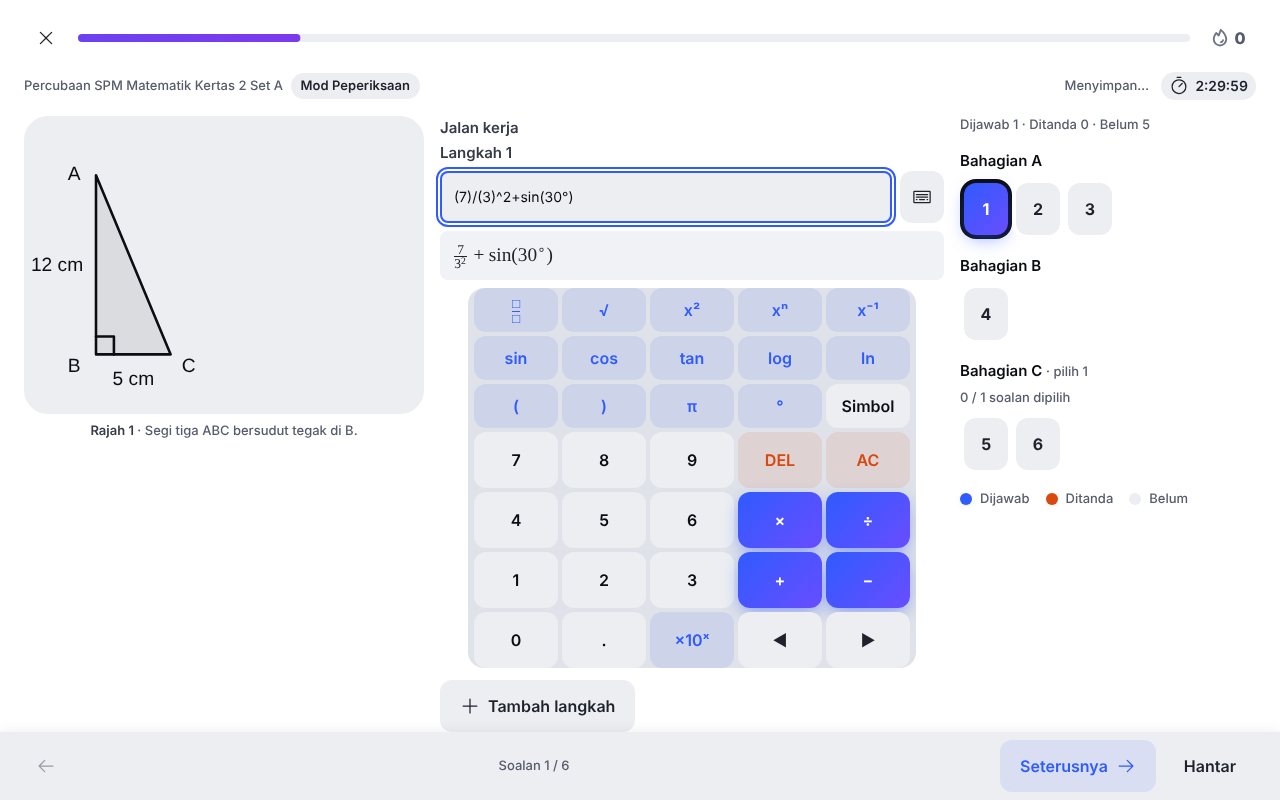
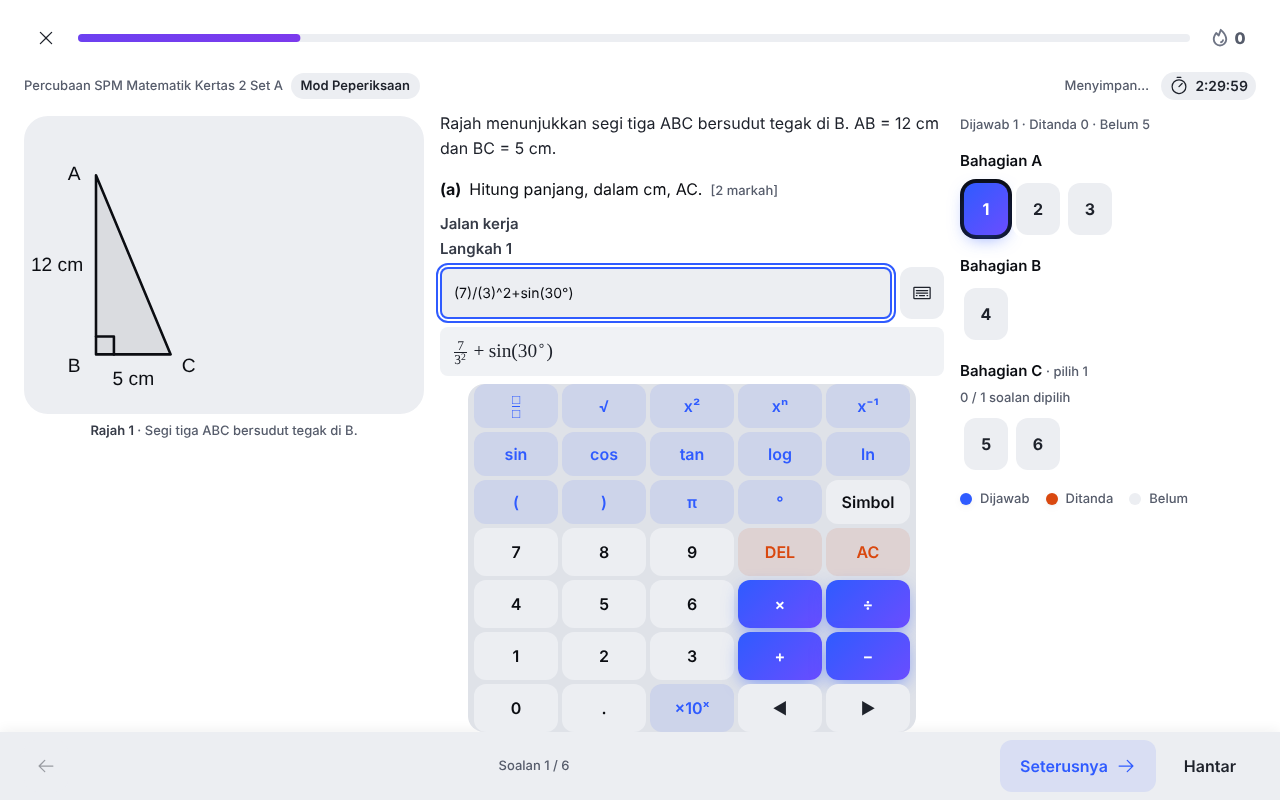
fix(m28-bijak-spm): FB-047 keypad on short desktop screens
From md the keypad is a normal block right under the field and its preview instead of a
bottom-sticky one: a sticky keypad is clamped by the short MathField wrapper and was drawn over
the field being edited (and its lower rows under the footer) when the paper was scrolled back to
the top on short viewports. The page now scrolls past it, so it can never cover the field and
nothing is painted under the footer. Opening scrolls the field into view with as much of the
keypad as fits; md number keys are 48 px (were 56) so it fits more often. The phone sheet is
unchanged. Evidence screenshots regenerated.

Claude-Session: https://claude.ai/code/session_01TXT87Q9DVT1cfY4XLBf2z9

Changed region(s): [[0.3438, 0.125, 0.75, 0.9375], [0.6875, 0.2188, 0.7188, 0.2812]]

diff --git a/src/modules/m28-bijak-spm/components/MathField.vue b/src/modules/m28-bijak-spm/components/MathField.vue
@@ -5,11 +5,12 @@
  * shown. The stored value is LaTeX (converted on every change) and a KaTeX preview right under the
  * box shows how the line was understood (stacked fractions, powers, roots).
  *
- * The keypad stays out of the way of the line: it is docked at the bottom edge of the scrolling
- * area (a bottom sheet over the attempt footer below `md`, sticky above the footer from `md`), the
- * field is scrolled into the free area above it, and only one keypad is open. Below `md` the sheet
- * has its own display row (the preview) and a "Tutup" key, and it closes on a tap or focus outside
- * the field and the keypad, so the footer (Seterusnya / Hantar) is never out of reach.
+ * The keypad never covers the line being edited: from `md` it is a normal block right under the
+ * line and its preview (the page scrolls past it, nothing can sit under the footer); below `md` it
+ * is a bottom sheet over the attempt footer, and the field is scrolled into the free area above
+ * it. Only one keypad is open. The sheet has its own display row (the preview) and a "Tutup" key,
+ * and it closes on a tap or focus outside the field and the keypad, so the footer (Seterusnya /
+ * Hantar) is never out of reach.
  */
 import { computed, nextTick, onBeforeUnmount, onMounted, ref, useId, watch } from 'vue'
 
@@ -50,13 +51,12 @@ const id = useId()
 const MD_REM = 48
 const MEDIA_FEATURE = 'min-width'
 const WIDE_QUERY = `(${MEDIA_FEATURE}: ${MD_REM}rem)`
-const previewComp = ref<{ $el: HTMLElement } | null>(null)
 const wrapComp = ref<{ $el: HTMLElement } | null>(null)
 const wrap = computed<HTMLElement | null>(() => wrapComp.value?.$el ?? null)
 const toggleBtn = ref<{ $el: HTMLElement } | null>(null)
 const dock = ref<HTMLElement | null>(null)
 const spacer = ref<HTMLElement | null>(null)
-/** From `md` (768 px) the keypad is inline and sticky; below it is a bottom sheet over the footer. */
+/** From `md` (768 px) the keypad is an in-flow block under the line; below it is a bottom sheet over the footer. */
 const wide = ref(true)
 let wideQuery: MediaQueryList | null = null
 const onWide = (e: MediaQueryListEvent): void => {
@@ -149,12 +149,20 @@ async function revealField(): Promise<void> {
   if (!box || !field || !sc || !sheet) return
   const area = sc.getBoundingClientRect()
   const rect = sheet.getBoundingClientRect()
-  const fixed = getComputedStyle(sheet).position === 'fixed'
-  const free = (fixed ? rect.top : area.bottom - rect.height) - 8
   const f = field.getBoundingClientRect()
   const top = area.top + pinnedTop(sc, f.left + f.width / 2) + 2
   const boxTop = box.getBoundingClientRect().top
-  const last = ((!wide.value && field) || previewComp.value?.$el || field).getBoundingClientRect()
+  if (wide.value) {
+    // In-flow keypad: the whole field (label first) under the strip, then as much of the keypad as
+    // fits, but never at the cost of the line itself.
+    let move = boxTop < top ? boxTop - top : 0
+    const cut = rect.bottom - move - area.bottom
+    if (cut > 0) move += Math.min(cut, Math.max(0, f.top - move - top))
+    if (move !== 0) sc.scrollTop += move
+    return
+  }
+  const free = rect.top - 8
+  const last = field.getBoundingClientRect()
   let delta: number
   if (boxTop >= top && last.bottom <= free)
     delta = 0 // already in the free area
@@ -273,7 +281,6 @@ onBeforeUnmount(() => {
     </DsCluster>
     <DsSurface
       v-if="hasContent && (wide || !keypad)"
-      ref="previewComp"
       level="soft"
       padding="sm"
       radius="chip"
@@ -293,7 +300,7 @@ onBeforeUnmount(() => {
       />
       <div
         ref="dock"
-        class="fixed inset-x-0 bottom-0 z-30 max-h-dvh overflow-y-auto md:sticky"
+        class="fixed inset-x-0 bottom-0 z-30 max-h-dvh overflow-y-auto md:static"
         data-testid="math-keyboard-dock"
       >
         <DsSurface

diff --git a/src/modules/m28-bijak-spm/__tests__/math-keypad.test.ts b/src/modules/m28-bijak-spm/__tests__/math-keypad.test.ts
@@ -282,8 +282,8 @@ describe('keypad keeps the field and its preview in view (FB-047)', () => {
       order.map((e) => (e.tagName === 'INPUT' ? 'input' : e.getAttribute('data-testid'))),
     ).toEqual(['input', 'math-preview', 'math-keyboard-dock'])
     expect(dock.classes()).toContain('fixed')
-    expect(dock.classes()).toContain('md:sticky')
-    // inline from md: no spacer, the dock is sticky
+    expect(dock.classes()).toContain('md:static')
+    // inline from md: no spacer, the dock is a normal block
     expect(w.find('[data-testid=math-keyboard-spacer]').exists()).toBe(false)
     w.unmount()
   })

diff --git a/src/modules/m28-bijak-spm/components/MathKeyboard.vue b/src/modules/m28-bijak-spm/components/MathKeyboard.vue
@@ -121,7 +121,7 @@ function press(k: KeyView): void {
           :variant="TONE[k.tone].variant"
           :class="
             k.tone === 'num' || k.tone === 'op'
-              ? 'min-h-11 sm:min-h-12 md:min-h-14 learner:min-h-11 sm:learner:min-h-12 md:learner:min-h-14'
+              ? 'min-h-11 sm:min-h-12 learner:min-h-11 sm:learner:min-h-12'
               : 'min-h-11 learner:min-h-11'
           "
           class="px-0 learner:px-0"
